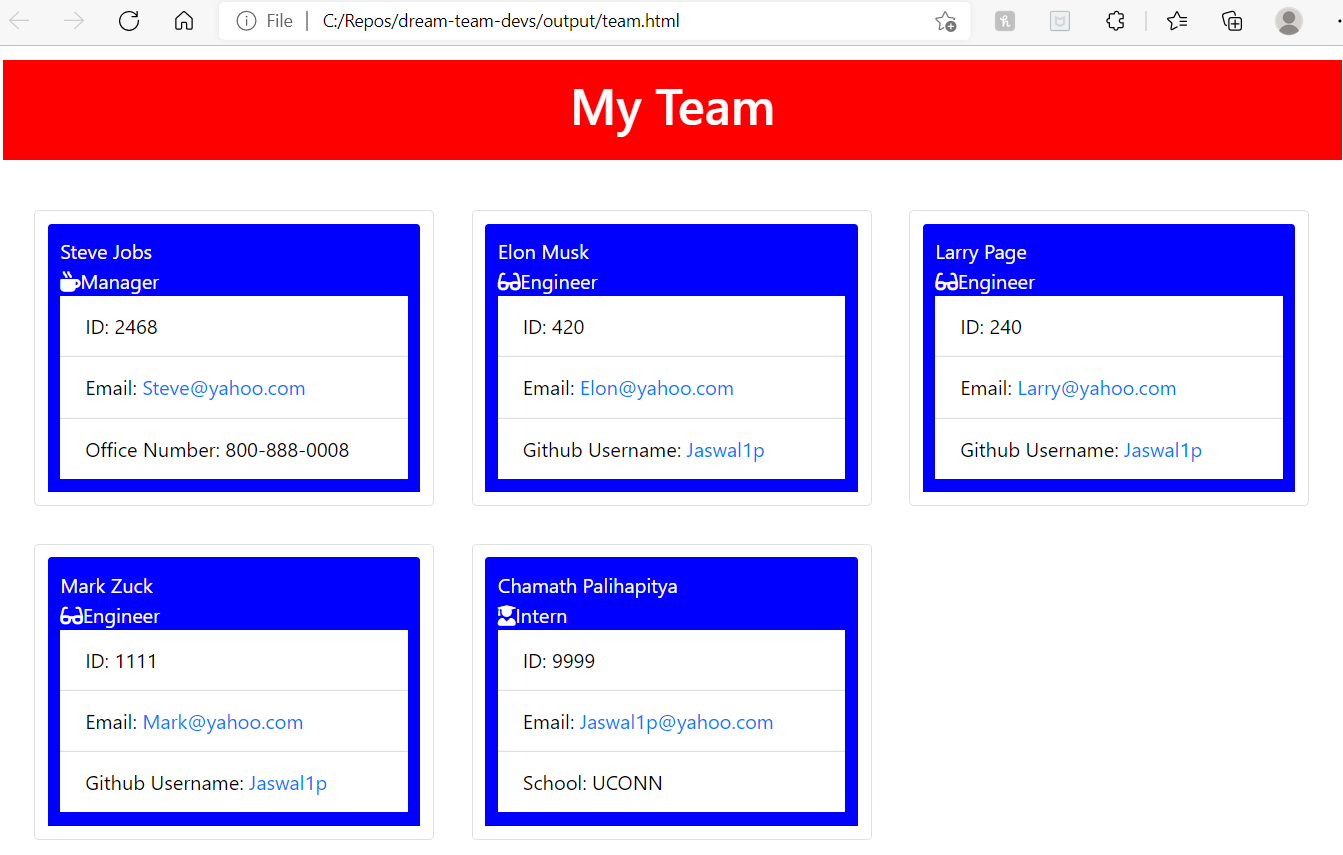
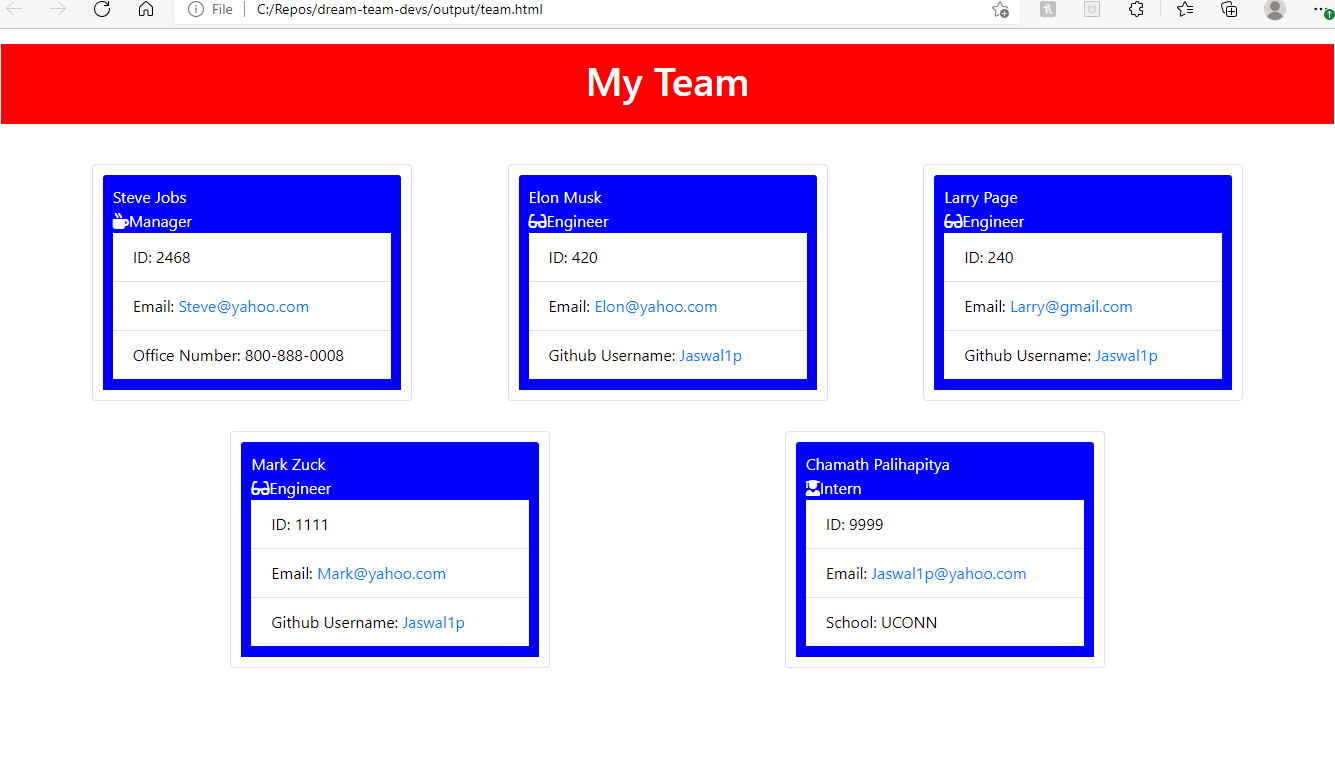
minor addition to css- justify content

Changed region(s): [[0.0, 0.0, 1.0, 0.9659]]

diff --git a/output/team.html b/output/team.html
@@ -23,23 +23,23 @@
                   
         <div class="card" style="width: 20rem;">
            <div class="card-header">
-                steve <br/>
+                Steve Jobs <br/>
                 <i class="fas fa-mug-hot"></i>Manager
                 <ul class="list-group list-group-flush">
-                    <li class="list-group-item">ID: 123</li>
-                    <li class="list-group-item">Email: <span id="email"><a href="mailto:steve@yahoo.co">steve@yahoo.co</a></span></li>
-                    <li class="list-group-item">Office Number: 888888</li>
+                    <li class="list-group-item">ID: 2468</li>
+                    <li class="list-group-item">Email: <span id="email"><a href="mailto:Steve@yahoo.com">Steve@yahoo.com</a></span></li>
+                    <li class="list-group-item">Office Number: 800-888-0008</li>
                 </ul>
             </div>
         </div>     
         
         <div class="card" style="width: 20rem;">
             <div class="card-header">
-               Elon <br/>
+               Elon Musk <br/>
                 <i class="fas fa-glasses"></i>Engineer
                 <ul class="list-group list-group-flush">
                     <li class="list-group-item">ID: 420</li>
-                    <li class="list-group-item">Email: <span id="email"><a href="mailto:Jaswal1p@yahoo.com">Jaswal1p@yahoo.com</a></span></li>
+                    <li class="list-group-item">Email: <span id="email"><a href="mailto:Elon@yahoo.com">Elon@yahoo.com</a></span></li>
                     <li class="list-group-item">Github Username: <a target="_blank" href="https://github.com/Jaswal1p">Jaswal1p</a></li>
                 </ul>
             </div>
@@ -47,11 +47,35 @@
         
         <div class="card" style="width: 20rem;">
             <div class="card-header">
-               Chamth <br/>
+               Larry Page <br/>
+                <i class="fas fa-glasses"></i>Engineer
+                <ul class="list-group list-group-flush">
+                    <li class="list-group-item">ID: 240</li>
+                    <li class="list-group-item">Email: <span id="email"><a href="mailto:Larry@gmail.com">Larry@gmail.com</a></span></li>
+                    <li class="list-group-item">Github Username: <a target="_blank" href="https://github.com/Jaswal1p">Jaswal1p</a></li>
+                </ul>
+            </div>
+        </div>     
+        
+        <div class="card" style="width: 20rem;">
+            <div class="card-header">
+               Mark Zuck <br/>
+                <i class="fas fa-glasses"></i>Engineer
+                <ul class="list-group list-group-flush">
+                    <li class="list-group-item">ID: 1111</li>
+                    <li class="list-group-item">Email: <span id="email"><a href="mailto:Mark@yahoo.com">Mark@yahoo.com</a></span></li>
+                    <li class="list-group-item">Github Username: <a target="_blank" href="https://github.com/Jaswal1p">Jaswal1p</a></li>
+                </ul>
+            </div>
+        </div>     
+        
+        <div class="card" style="width: 20rem;">
+            <div class="card-header">
+               Chamath Palihapitya <br/>
                 <i class="fas fa-user-graduate"></i>Intern
                 <ul class="list-group list-group-flush">
-                    <li class="list-group-item">ID: 111111</li>
-                    <li class="list-group-item">Email: <span id="email"><a href="mailto:C@yahoo.com">C@yahoo.com</a></span></li>
+                    <li class="list-group-item">ID: 9999</li>
+                    <li class="list-group-item">Email: <span id="email"><a href="mailto:Jaswal1p@yahoo.com">Jaswal1p@yahoo.com</a></span></li>
                     <li class="list-group-item">School: UCONN</li>
                 </ul>
             </div>

diff --git a/dist/style.css b/dist/style.css
@@ -21,6 +21,7 @@ main {
     display: flex !important;
     flex-direction:row !important;
     flex-wrap: wrap !important;
+    justify-content: space-evenly !important;
 }
 
 .card {
